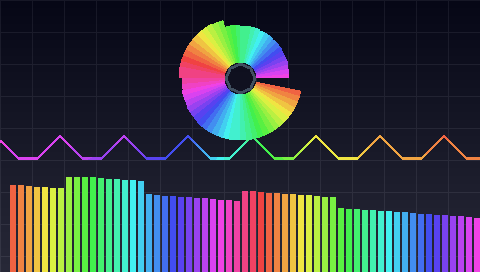
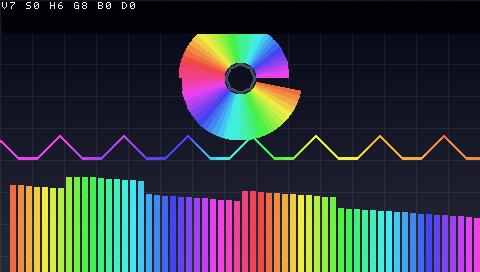
feat: 状态行文字叠加（点阵字库上屏）

Changed region(s): [[0.0, 0.0588, 1.0, 0.1471], [0.0625, 0.0, 0.2812, 0.0588], [0.0, 0.0, 0.0312, 0.0294]]

diff --git a/docs/13-todo.md b/docs/13-todo.md
@@ -166,8 +166,16 @@ python3 scripts/uart_term.py -c '?' -c V02 -c '?'
 - [x] **顺手补了历史遗漏**：`ui_mode` / `ui_style` / `ui_view` / `ui_hue_spd`
   这四路都是 `clk_sys` 寄存器却在 `clk_pix` 域被直接用，**没有任何同步器** ✗
   已加 2 级 `cdc_sync`（多比特同时翻转仍可能采到中间态，但只在帧起始采样一次，概率可忽略）
-- [ ] **`ui_layer.v`** ⏸ **暂缓** —— 没有字库，图层只能画色块，价值有限 ✗
-      建议等 P3 的点阵字库一起做
+- [x] **P3 点阵字库** ✅ **已完成**（2026-09-29，与 UI 一起做的）
+  - `scripts/golden/gen_font.py`：用 **ASCII 艺术字**定义 43 个字符（0-9 A-Z + 空格 . : - = % /）
+    ✗ 肉眼可校对 ✗ 生成 `rtl/video/font_rom.v`（5x7 点阵，**只要 69 LUT / 0 FF**）
+  - `rtl/video/text_buf.v`：字符缓冲 + 位置换算 + 查字库，全程组合，不给画面引入错位
+  - `rtl/video/status_line.v`：把配置拼成 `V7 S0 H6 G8 B0 D0`（**与 UART 回执同格式**）
+    ✗ 只在配置变化时重写，不每帧刷 ✓
+  - `disp_mix` 最上层叠加：字形近白 ✗ 底板是**半透明**的（背景压到 1/4 ✓）不是死黑框 ✓
+  - 验证：`tb_font_rom`（形状/索引/列方向/行距/越界）+ `tb_text_buf`（框内外/留白/空格/未写格子）
+    + `tb_status_line`（内容/按需刷新/十六进制）+ `tb_disp_top` 130560 像素逐点一致
+- [ ] **`ui_layer.v`** —— 现在有字库了，图层才有意义（可以把状态行做成一个"层"）✗ 待做
 - [ ] **`ui_style.v`** ⏸ 主要是重构（配色集中管理），视觉零变化
 
 > ⚠ **不是移植 LVGL**。LVGL 依赖动态内存 + CPU 顺序执行，RTL 里没有这些概念。
